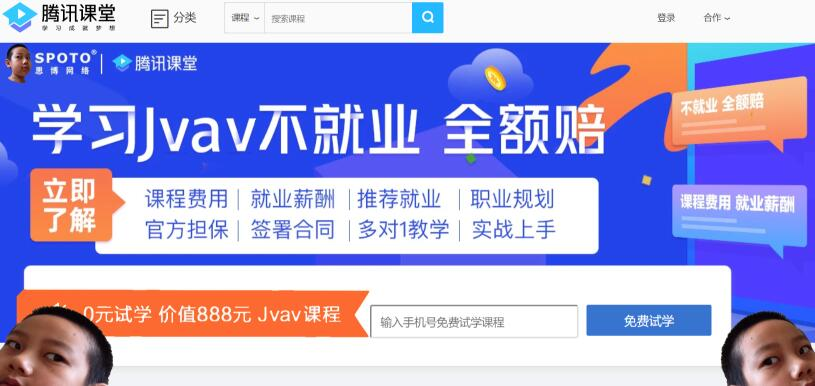
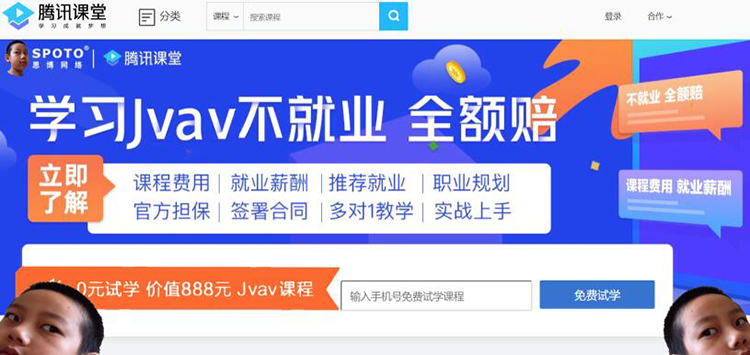
尝试修复图像问题 + 引用Java官网CSS

diff --git a/index.html b/index.html
@@ -17,7 +17,7 @@ var aFEOTagsMap={};var aFeoOverrideAttrRead=function(tag,att,el){try{var pref="d
 
 <link href="static/css/ren-utf-8~wk056hn61c7rdi1gm9drypo1eimagbu38a7oarp8nqm.css" data-feo-orig-href="/ga/css/screen.css" media="screen" rel="stylesheet" type="text/css" charset="utf-8"/><script blzsys="1" type="text/javascript">aFeoOverrideAttrRead('link', 'href')</script>
 <meta http-equiv="X-UA-Compatible" content="IE=7" />
-	<script type='text/javascript' charset='UTF-8' crossorigin='anonymous'>window.apmeum||(window.apmeum = {});apmeum.commonInited||(function(){apmeum.responseStart=Number(new Date);apmeum.appKey='null';apmeum.customerId='7e2e90dc30bda';apmeum.agentId='D61F196292670F1BE5114C7D4E6FBFF69EFF516F';apmeum.agentVersionKey='D61F196292670F1BE5114C7D4E6FBFF69EFF516F';apmeum.baseCollectorUrl='https://omc-7e2e90dc30bda.eum.omc.ocp.oraclecloud.com/APMaaSCollector/external/collector?';apmeum.commonInited=true;}());</script><script data-feo-orig-src="static/js/apmeum.js" src="/feo-cdn/_/m/Ren-UTF-8~_me_KJ0Qtk7v9K-Dw-sEHXugnZx_t2KQn6IG4Vt2-v4.js" async='async' defer='defer' crossorigin='anonymous'></script><script type='text/javascript' charset='UTF-8' crossorigin='anonymous'>window.apmeum||(window.apmeum = {});apmeum.dynamicInited||(function(){apmeum.sid='uwKyFvW_q9HuML7yXZmPmnxK3TdihVaQXsFYPN4M2sxPdATYJgT1!-1493628344!NONE!1583535814079';apmeum.operationId='234E7225D3521A8731CFAD52D320E307A5BAD5B7';apmeum.statusCode='200';apmeum.obs=31;apmeum.typeobs || (apmeum.typeobs={});apmeum.connectionCount=3;apmeum.connectionTimeout=2000;apmeum.rewriteRules=0;apmeum.webapp_tag='';apmeum.dynamicInited=true;}());</script><script async="async" type="text/javascript" src='static/js/e816ce3ccc4c4217b825b2b4781e8bbf.js' crossorigin=""></script>
+	<script type='text/javascript' charset='UTF-8' crossorigin='anonymous'>window.apmeum||(window.apmeum = {});apmeum.commonInited||(function(){apmeum.responseStart=Number(new Date);apmeum.appKey='null';apmeum.customerId='7e2e90dc30bda';apmeum.agentId='D61F196292670F1BE5114C7D4E6FBFF69EFF516F';apmeum.agentVersionKey='D61F196292670F1BE5114C7D4E6FBFF69EFF516F';apmeum.baseCollectorUrl='https://omc-7e2e90dc30bda.eum.omc.ocp.oraclecloud.com/APMaaSCollector/external/collector?';apmeum.commonInited=true;}());</script><script data-feo-orig-src="static/js/apmeum.js" src="https://java.com/feo-cdn/_/m/Ren-UTF-8~_me_KJ0Qtk7v9K-Dw-sEHXugnZx_t2KQn6IG4Vt2-v4.js" async='async' defer='defer' crossorigin='anonymous'></script><script type='text/javascript' charset='UTF-8' crossorigin='anonymous'>window.apmeum||(window.apmeum = {});apmeum.dynamicInited||(function(){apmeum.sid='uwKyFvW_q9HuML7yXZmPmnxK3TdihVaQXsFYPN4M2sxPdATYJgT1!-1493628344!NONE!1583535814079';apmeum.operationId='234E7225D3521A8731CFAD52D320E307A5BAD5B7';apmeum.statusCode='200';apmeum.obs=31;apmeum.typeobs || (apmeum.typeobs={});apmeum.connectionCount=3;apmeum.connectionTimeout=2000;apmeum.rewriteRules=0;apmeum.webapp_tag='';apmeum.dynamicInited=true;}());</script><script async="async" type="text/javascript" src='static/js/e816ce3ccc4c4217b825b2b4781e8bbf.js' crossorigin=""></script>
 	
 	<style type="text/css">#teconsent a {
   			text-decoration: underline;
@@ -82,10 +82,9 @@ var aFEOTagsMap={};var aFeoOverrideAttrRead=function(tag,att,el){try{var pref="d
 	<h2>来自赞助商的 Jvav 课程广告</h2>
 
 <!-- BEGIN: jWidget_C/Raw-HTML/Display -->
-
-<div class="jvhx0w1">
+<div>
 <!-- 01 -->
-<img src="/static/images/ad-by tencentclass.jpg" alt="AD"></a>
+<img src="https://jvav.top/static/images/ad-by%20tencentclass.jpg" alt="AD"></a>
 </a>
 </div>
 <!-- END: jWidget_C/Raw-HTML/Display -->
@@ -111,8 +110,8 @@ var aFEOTagsMap={};var aFeoOverrideAttrRead=function(tag,att,el){try{var pref="d
 <a href="http://www.oracle.com/" class="jvsun0">Oracle</a>
 	</div>
 	<!-- END: jWidget_C/Footer/Display -->
-			<!--[if gte IE 5.5000]><!--><script data-feo-orig-src="static/js/subtlepager.js" src="/feo-cdn/z/Y/Ren-UTF-8~zYhWKCjIx0J6H23_Rjq4MtNoUQHhxnspNhq_MRQ37f8.js" type="text/javascript" charset="utf-8"></script><!-- <![endif]-->
-			<!--[if gte IE 6]><!--><script data-feo-orig-src="static/js/global.js" src="/feo-cdn/r/R/Ren-UTF-8~rRXd-CEfGscvf9oWKv7YANK_oNn3sENodSF-j4tGBQc.js" type="text/javascript" charset="utf-8"></script><!-- <![endif]-->
+			<!--[if gte IE 5.5000]><!--><script data-feo-orig-src="static/js/subtlepager.js" src="https://java.com/feo-cdn/z/Y/Ren-UTF-8~zYhWKCjIx0J6H23_Rjq4MtNoUQHhxnspNhq_MRQ37f8.js" type="text/javascript" charset="utf-8"></script><!-- <![endif]-->
+			<!--[if gte IE 6]><!--><script data-feo-orig-src="static/js/global.js" src="https://java.com/feo-cdn/r/R/Ren-UTF-8~rRXd-CEfGscvf9oWKv7YANK_oNn3sENodSF-j4tGBQc.js" type="text/javascript" charset="utf-8"></script><!-- <![endif]-->
 			<!--Begin SiteCatalyst code version: G.5. --> 
 <script language="javascript" type="text/javascript">
 <!--
@@ -123,11 +122,11 @@ var s_prop20 = "Home_Pages";
 // var s_prop21 = "180X150-728X90";
 var s_prop21 = "NoAds";
 //--></script>
-<script data-feo-orig-src="static/js/s_code_remote.js" language="javascript" src="/feo-cdn/t/U/Ren-UTF-8~tUC6wvJl1tR0eoCcQ2YthYDrBR1Hz7cx7eIR31jc3fU.js"></script>
+<script data-feo-orig-src="static/js/s_code_remote.js" language="javascript" src="https://java.com/feo-cdn/t/U/Ren-UTF-8~tUC6wvJl1tR0eoCcQ2YthYDrBR1Hz7cx7eIR31jc3fU.js"></script>
 <!-- End SiteCatalyst code version: G.5. -->
 <script blzsys="1" type="text/javascript">(function(){var oldOnLoad = window.onload;var newOnLoad = (function() {{
     var cssNode = document.createElement('link');
-    cssNode.href = '/feo-cdn/J/n/Ren-UTF-8~Jnz0USSAAGJNvKDuyBBz0bOGVUn-Xc_6quSMYPXCkoo.css';
+    cssNode.href = 'https://java.com/feo-cdn/J/n/Ren-UTF-8~Jnz0USSAAGJNvKDuyBBz0bOGVUn-Xc_6quSMYPXCkoo.css';
     cssNode.media = 'print';
     cssNode.rel = 'stylesheet';
     cssNode.type = 'text/css';
